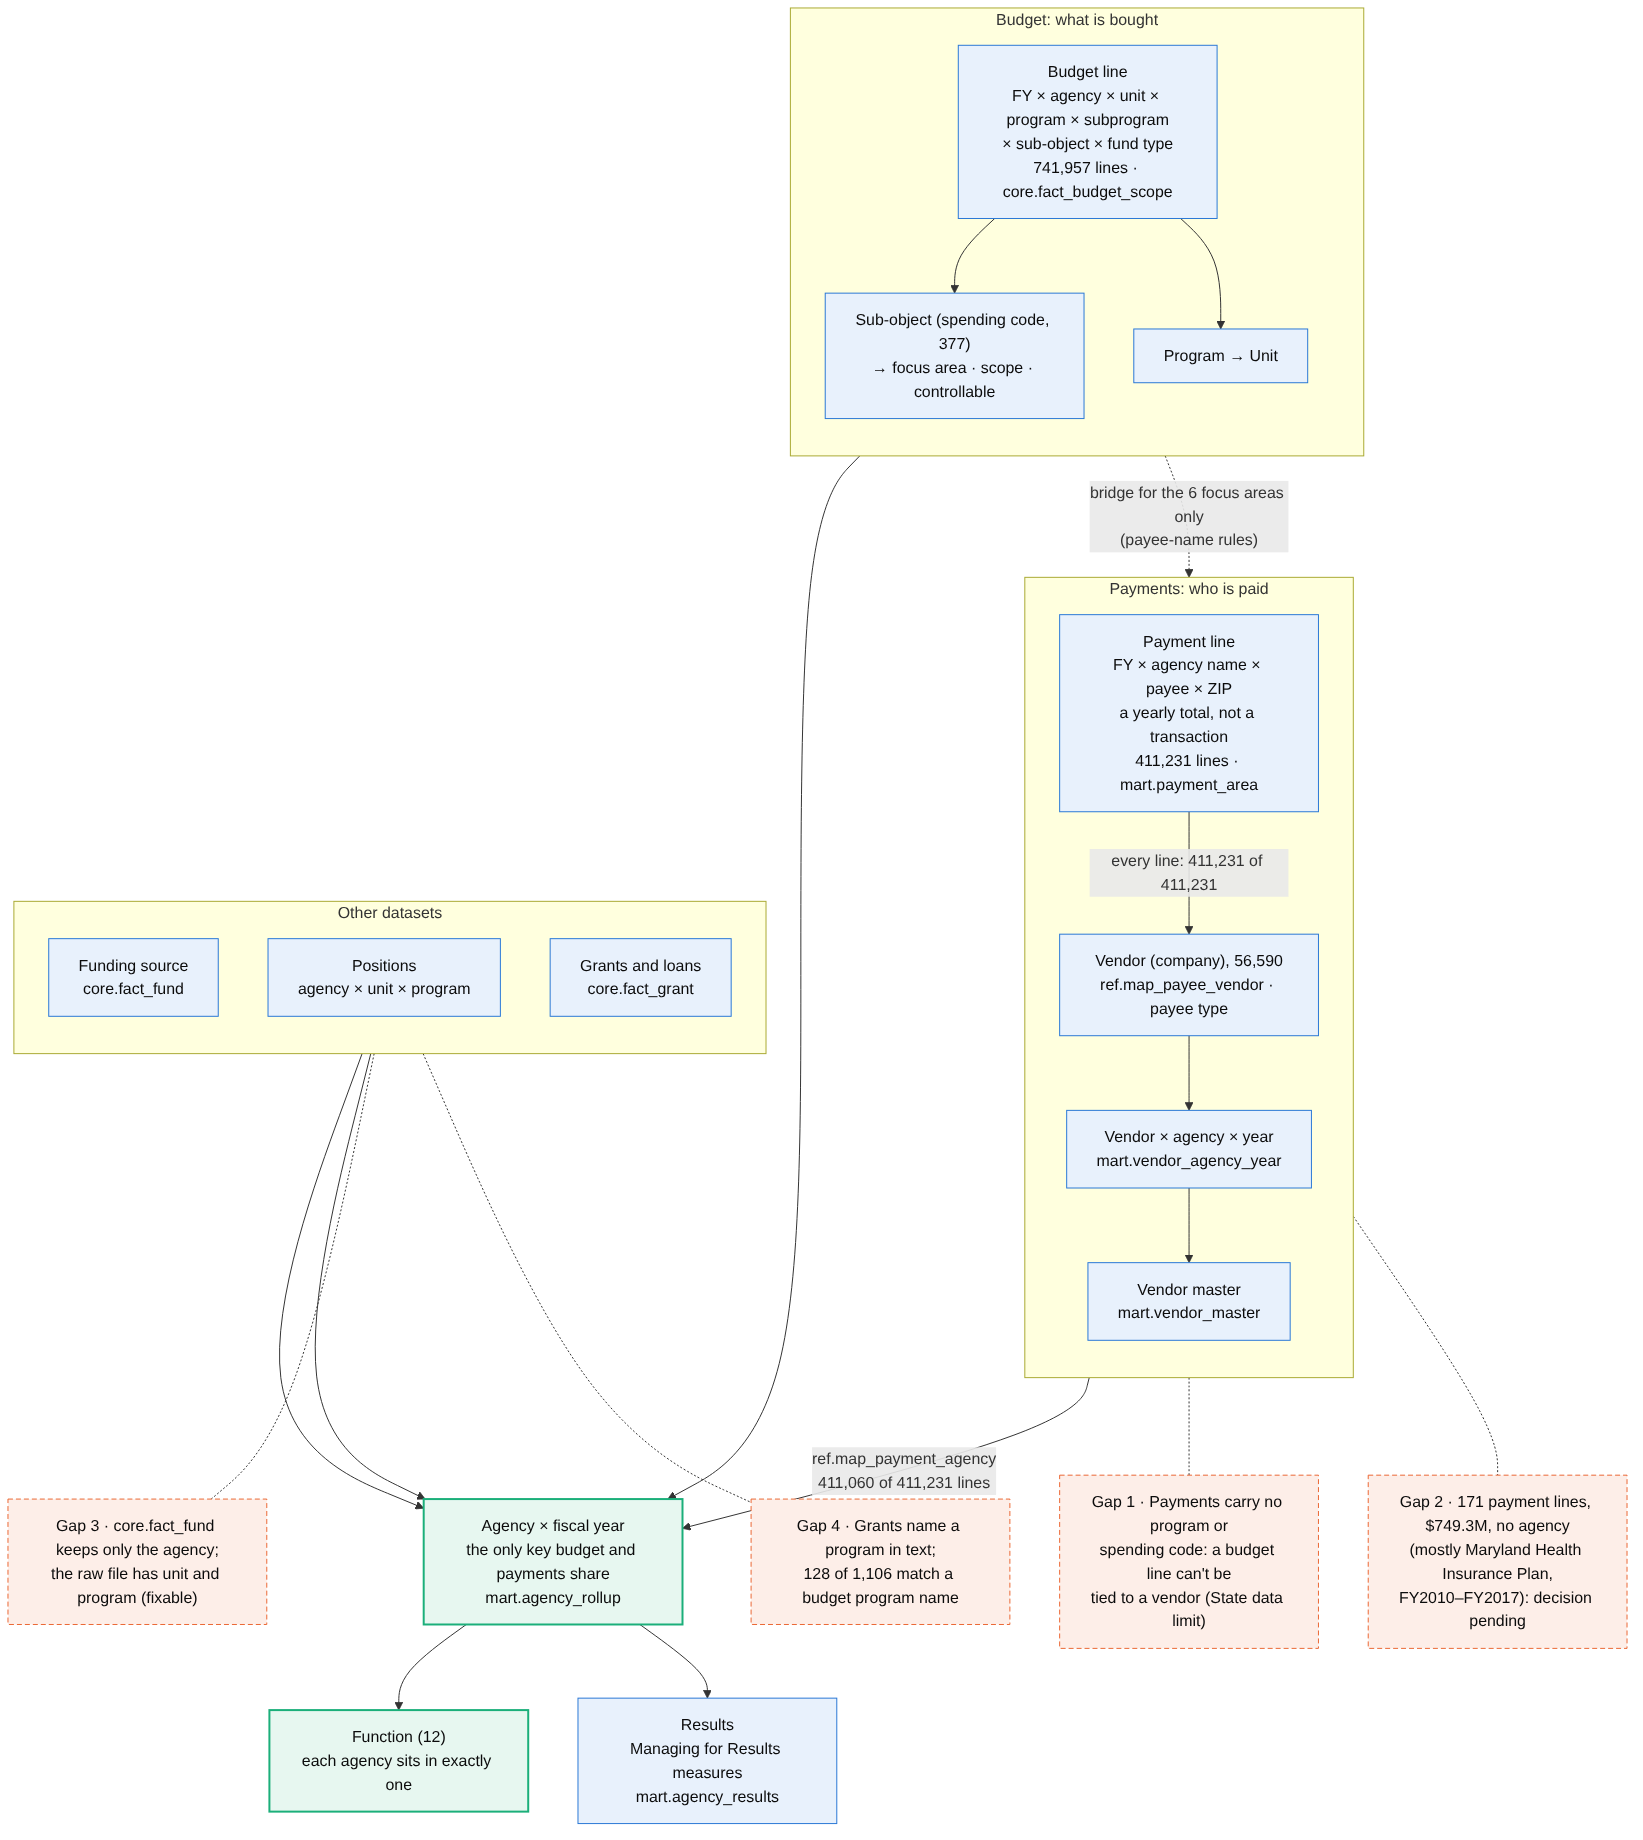
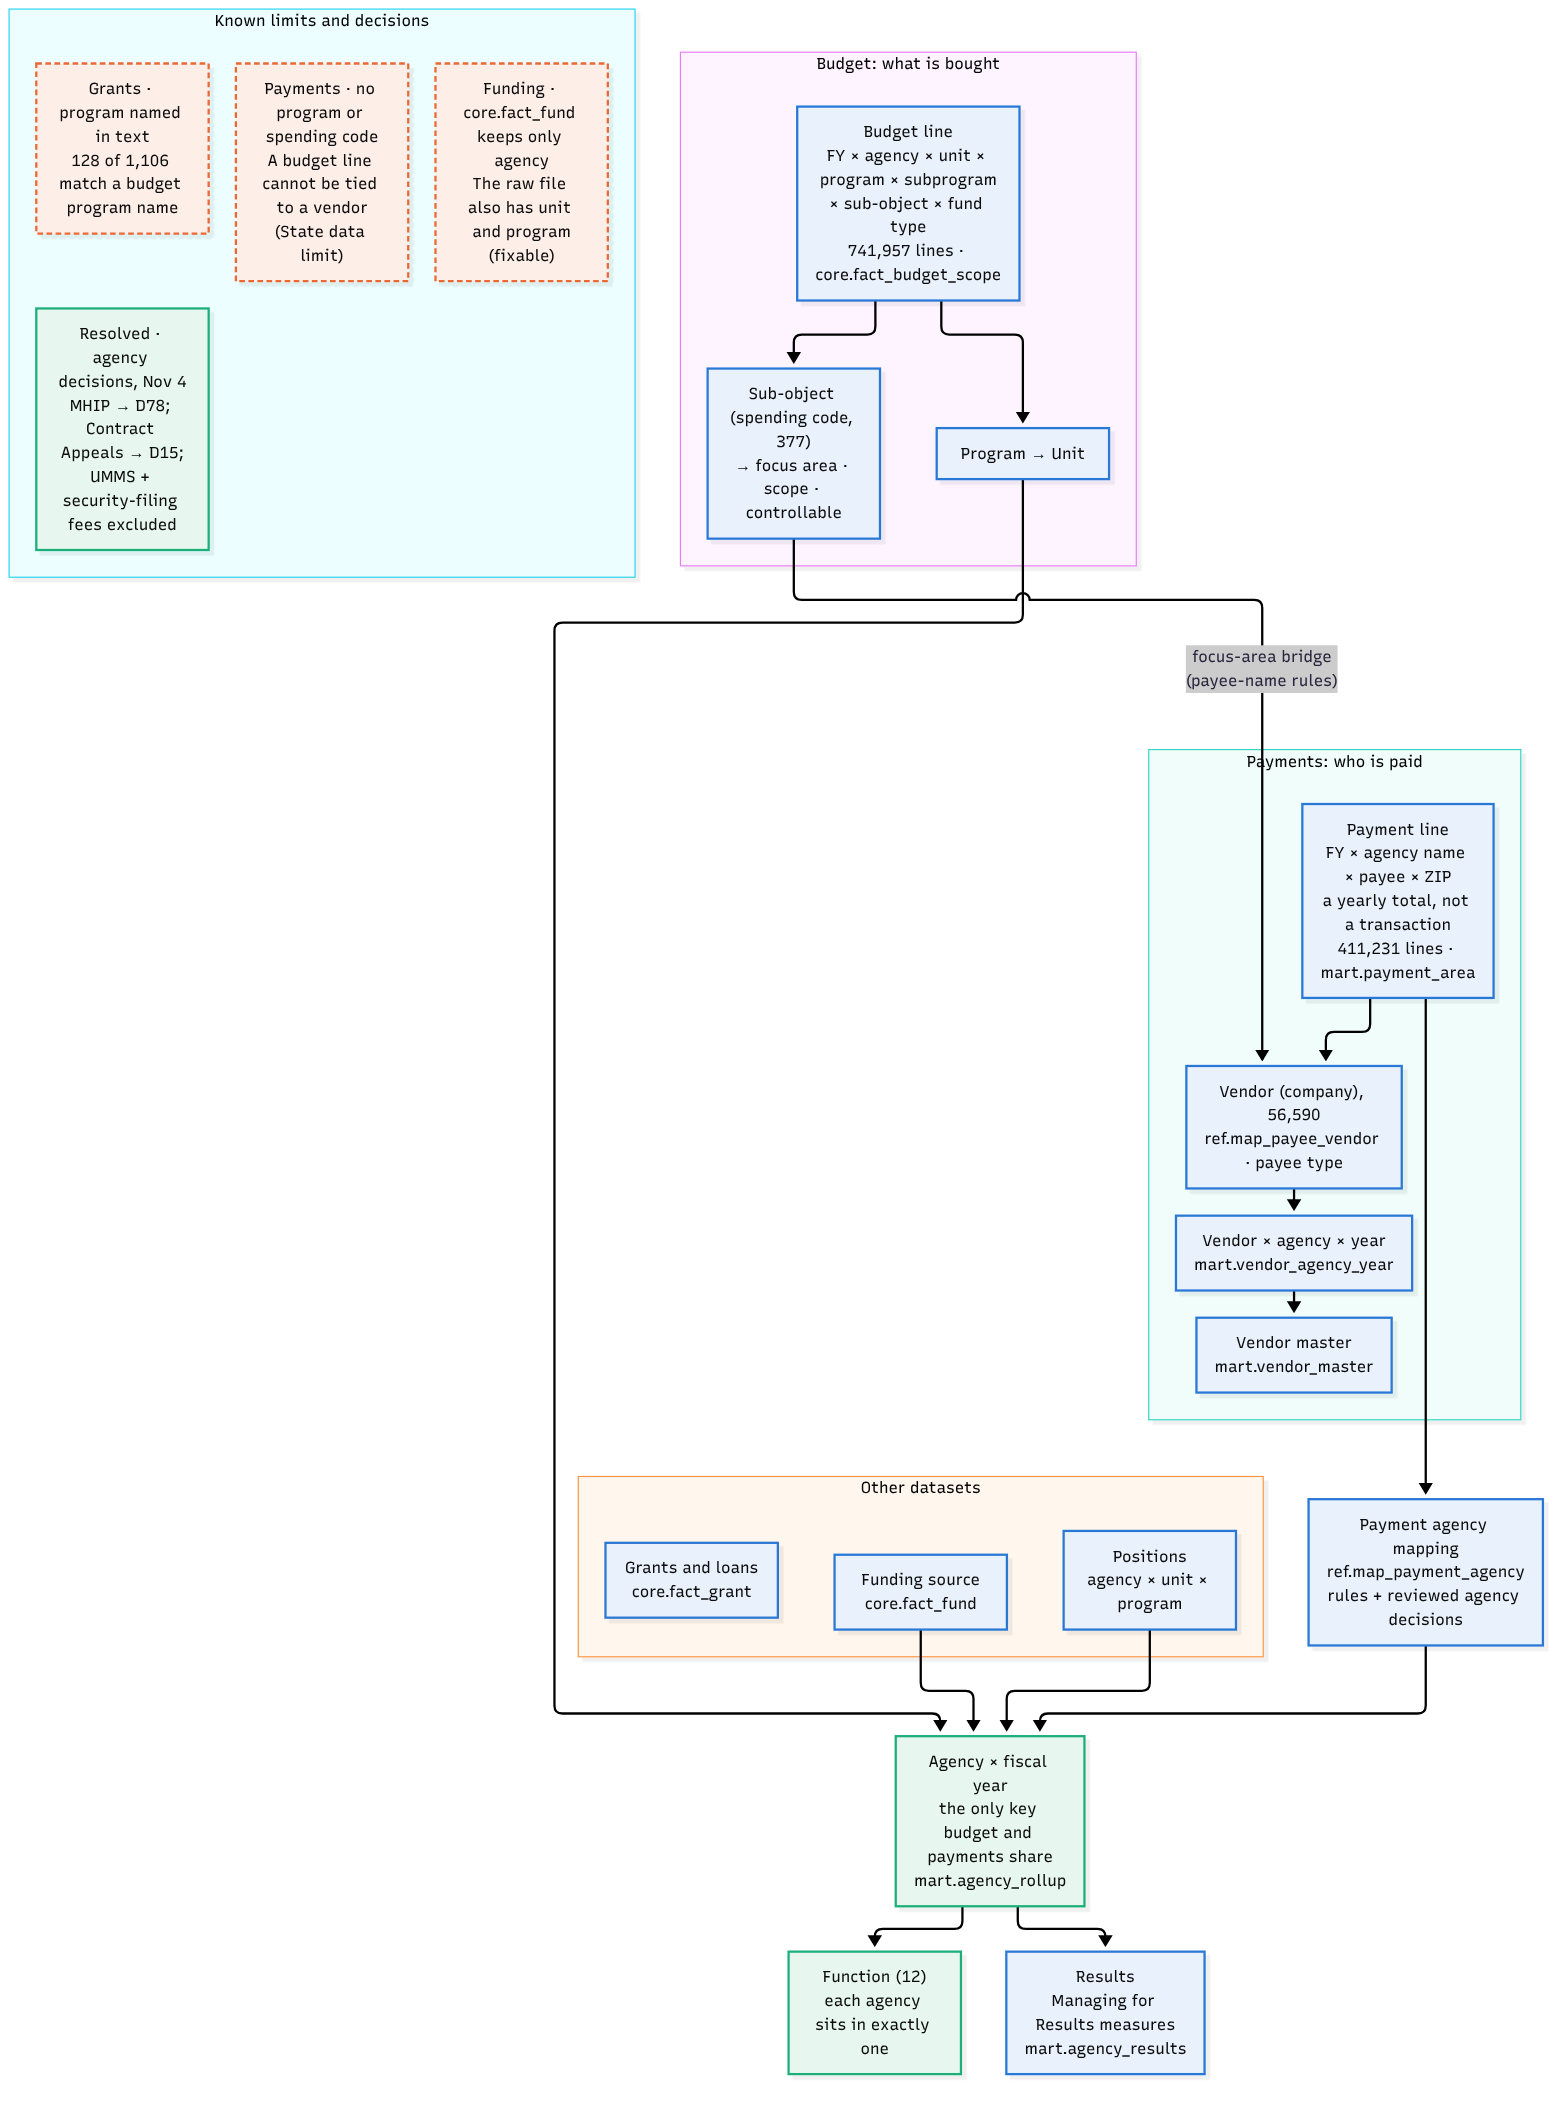
Regenerate figures from a fresh extract and build; update agency-mapping count to 143 of 145
Reconciliation, pipeline, data_hierarchy and HHI figures rebuilt from the branch's figures.py and
Mermaid sources (59 of 59 checks pass; rows-by-year, budget-by-stage and vendor-concentration
figures reproduce byte-for-byte and are unchanged). README and docs/recommendations.md: payment
agency names mapped is 143 of 145 after the Nov 4 decisions (was 141).

Claude-Session: https://claude.ai/code/session_01PGNQKw68gNTRMx4kbQH89J

diff --git a/docs/recommendations.md b/docs/recommendations.md
@@ -8,7 +8,7 @@ The GMI Savings Tracker's Overview recommends six steps. Each is produced by the
 | 2 | Confirm which reported savings recur | GMI's reported items; payments to matching vendors each year; status history | `reference/gmi_reported_savings.csv` (14 items); payments | Reference ✔; checks in Phase 5 |
 | 3 | Name the seven renegotiated contracts | Vendor payments FY2025 vs FY2026 | Payments | Extract ✔; candidate search in Phase 5 |
 | 4 | Plan the path to $50M | Budget by spending code and year; forecasts; **CPI** for real-dollar trends | Budget (yu65-jmmv); CPI (BLS, FRED fallback) | Extract ✔, `core.cpi_fy` ✔; plan in Phase 5 |
-| 5 | Keep one vendor and agency master list | Payment agency names; payee names; budget agency codes | Payments, budget; `reference/` maps | ✔ `ref.map_payment_agency` (141 of 145 names; 100% of FY2026 dollars), `ref.map_payee_vendor` (9,686 names in 4,478 multi-name companies) |
+| 5 | Keep one vendor and agency master list | Payment agency names; payee names; budget agency codes | Payments, budget; `reference/` maps | ✔ `ref.map_payment_agency` (143 of 145 names after the Nov 4 agency decisions; 100% of FY2026 dollars), `ref.map_payee_vendor` (9,686 names in 4,478 multi-name companies) |
 | 6 | Tie spending to results | **Managing for Results** measures by agency; spending by agency | DBM MFR strategic plans (111 agency PDFs, FY2027); budget | ✔ `core.mfr_measure`: 2,957 measures from 108 plans, 106 of 111 plans matched to a budget agency |
 
 Context added for all six: federal grants to Maryland governments (USAspending, `core.fact_federal_award`) to separate federal from General Fund savings, and population (Census estimates, `core.fact_population`) for spending per resident.

diff --git a/README.md b/README.md
@@ -147,7 +147,7 @@ Every rule the dashboard pipeline kept in code now lives in a CSV, so each chang
 | Measure | Pipeline | Dashboard |
 |---|---|---|
 | FY2026 payment dollars matched to a budget agency | 100.00% | 100.00% |
-| Payment agency names mapped | 141 of 145 | 141 of 145 |
+| Payment agency names mapped | 143 of 145 (141 on Oct 29, before the Nov 4 agency decisions) | 141 of 145 |
 | Payee names grouped into multi-name companies | 9,686 in 4,478 (all years) | 9,474 in 4,377 (FY2026 payees) |
 | Controllable purchases, FY2025 | $4,093,855,308 | $4,093,855,308 |
 | Focus areas, FY2025 | $1,287,718,788 in 96 codes | $1,287,718,788 in 96 codes |
